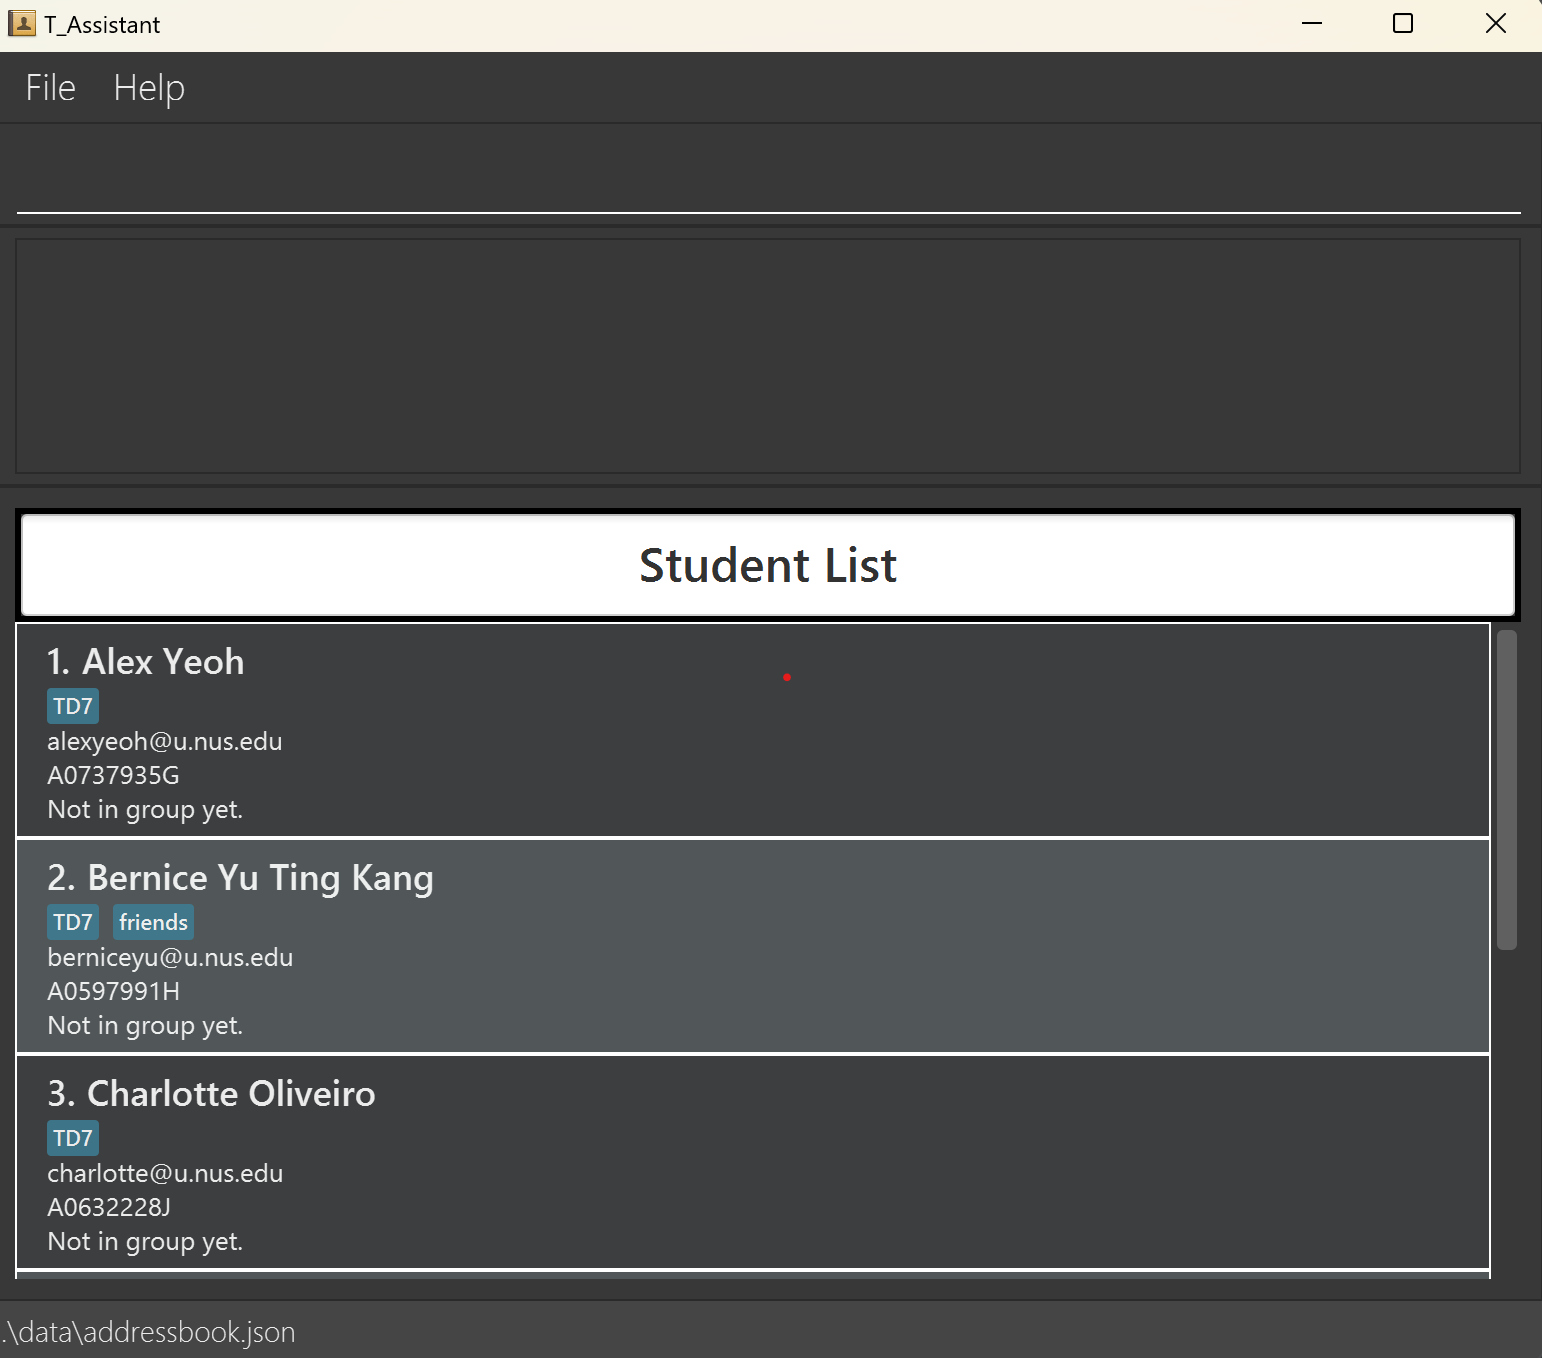
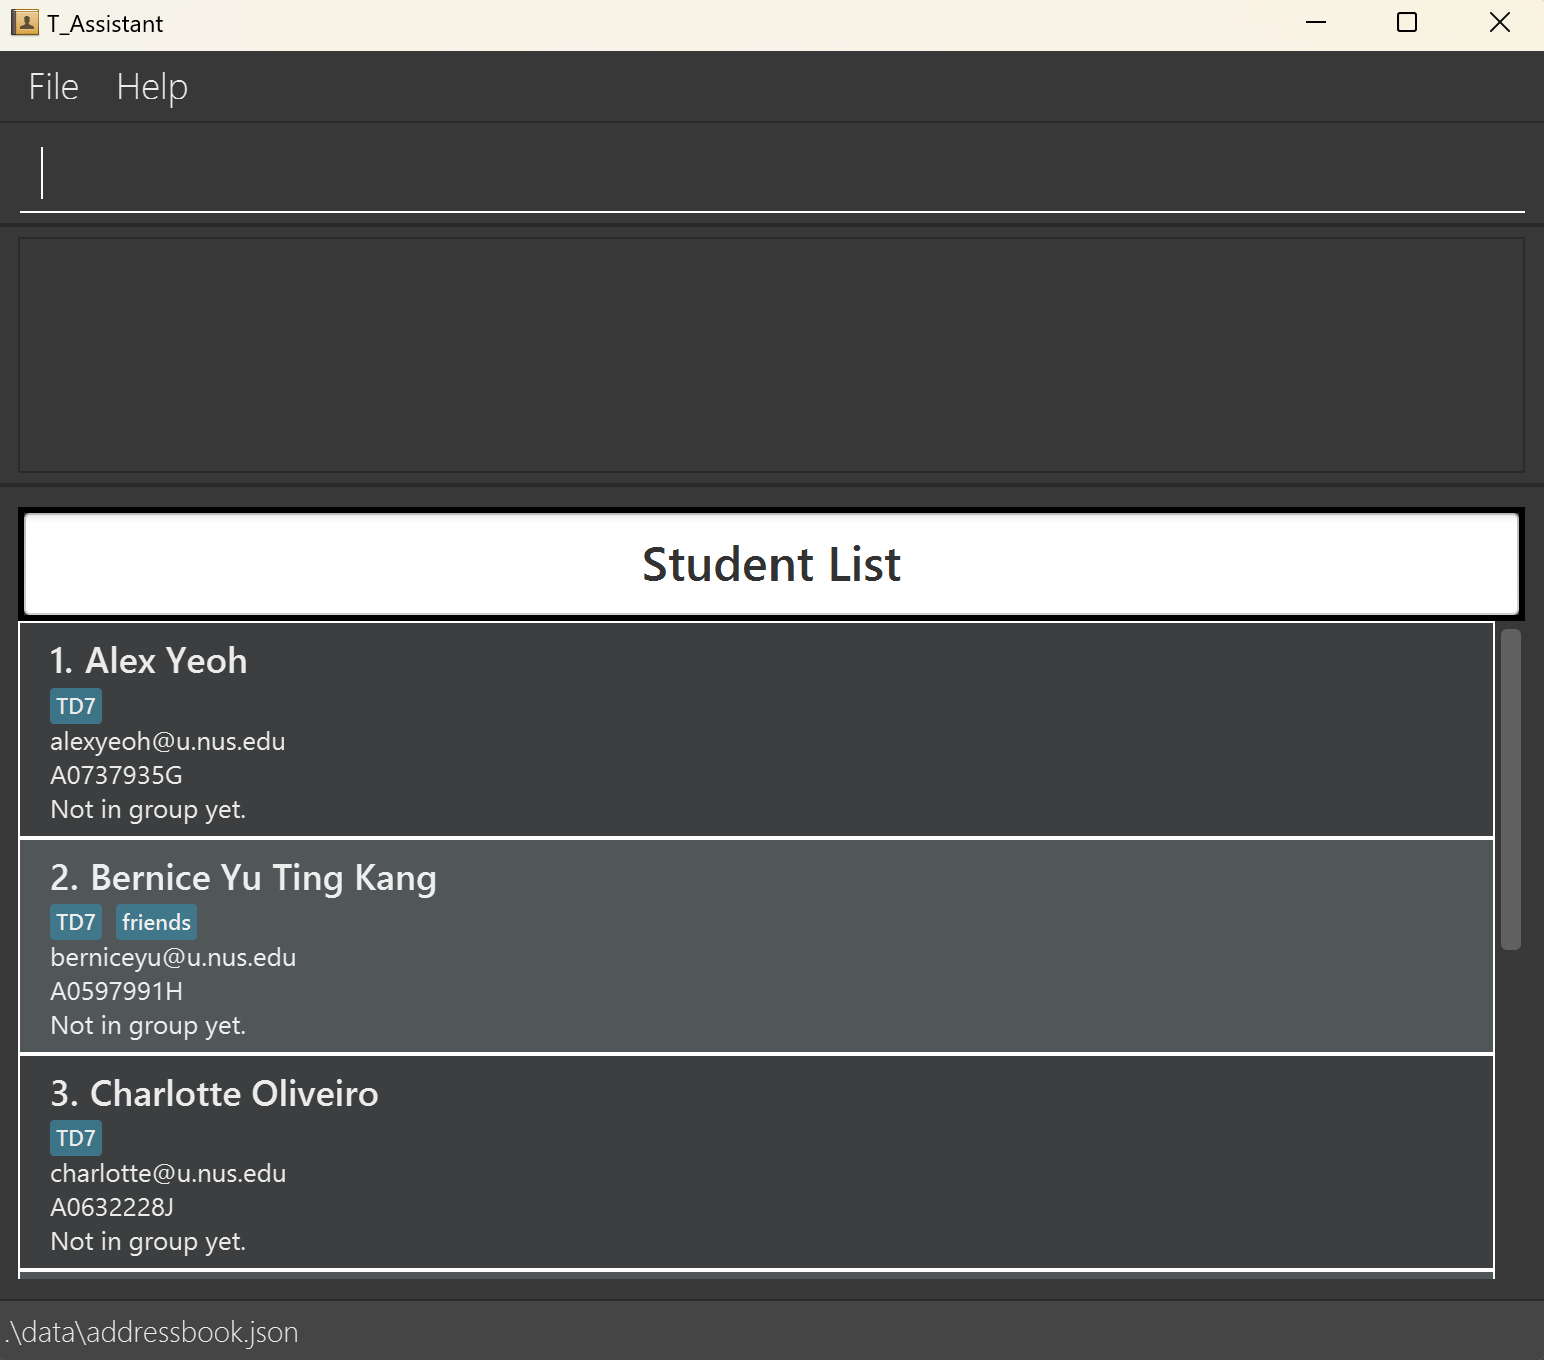
Fix Ui image and numbering in UG

Changed region(s): [[0.0, 0.3711, 0.9961, 0.9897], [0.0, 0.0, 0.1245, 0.0928], [0.9027, 0.0, 0.9339, 0.0309]]

diff --git a/docs/UserGuide.md b/docs/UserGuide.md
@@ -26,16 +26,16 @@ If you are on the PDF, use the table of contents below to navigate the site.
 
 1. Ensure you have Java `17` or above installed in your Computer.
 
-1. Download the latest `.jar` file from [here](https://github.com/AY2425S1-CS2103-F12-2/tp/releases).
+2. Download the latest `.jar` file from [here](https://github.com/AY2425S1-CS2103-F12-2/tp/releases).
 
-1. Copy the file to the folder you want to use as the _home folder_ for your T_Assistant.
+3. Copy the file to the folder you want to use as the _home folder_ for your T_Assistant.
 
-1. Open a command terminal, `cd` into the folder you put the jar file in, and use the `java -jar t_assistant.jar`
+4. Open a command terminal, `cd` into the folder you put the jar file in, and use the `java -jar t_assistant.jar`
    command to run the application.<br>
    *A GUI similar to the below should appear in a few seconds. Note how the app contains some sample data.*<br>
    <img src="images/Ui.png" width="600">
 
-1. Type the command in the command box and press Enter to execute it. e.g. typing **`help`** and pressing Enter will
+5. Type the command in the command box and press Enter to execute it. e.g. typing **`help`** and pressing Enter will
    open the help window.<br>
    Some example commands you can try:
 
@@ -50,7 +50,7 @@ If you are on the PDF, use the table of contents below to navigate the site.
 
     * `exit` : Exits the app.
 
-1. Refer to the [Features](#features) below for details of each command.
+6. Refer to the [Features](#features) below for details of each command.
 
 --------------------------------------------------------------------------------------------------------------------
 
